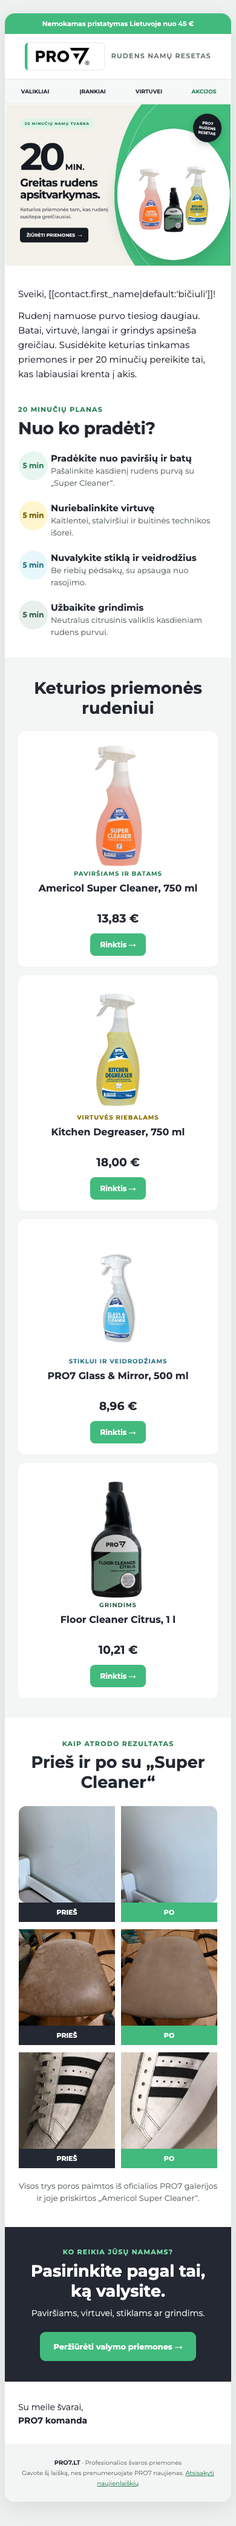
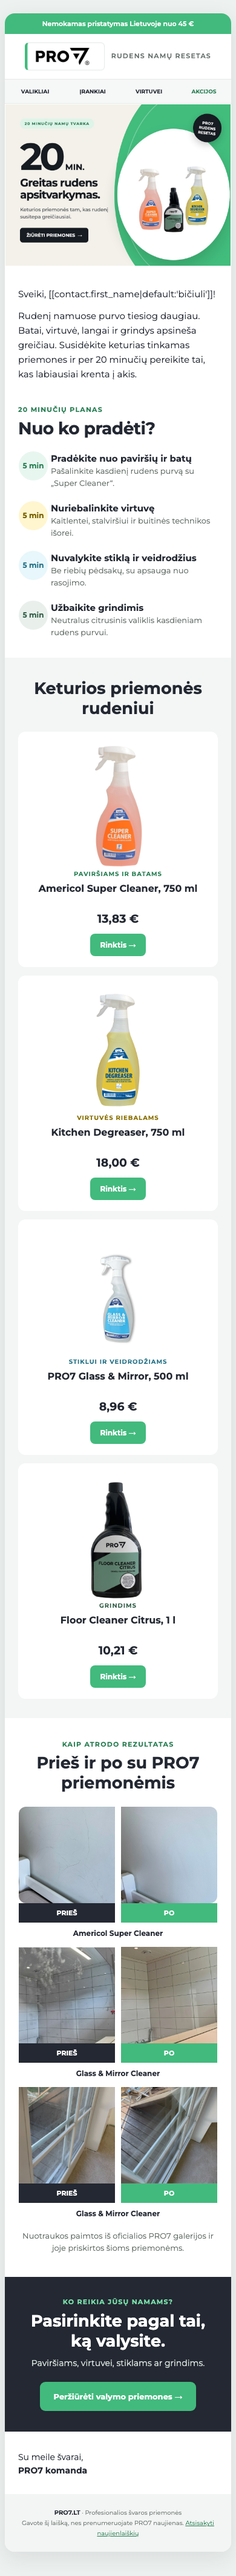
Diversify proof gallery with Glass and Mirror results

diff --git a/nl2-20min-rudens-resetas/index.html b/nl2-20min-rudens-resetas/index.html
@@ -67,20 +67,23 @@
 
       <tr><td class="pad" style="padding:36px 32px 38px;font-family:Montserrat,Arial,sans-serif;color:#232832">
         <div style="font-size:11px;line-height:14px;font-weight:700;letter-spacing:1.2px;text-transform:uppercase;color:#277e52;text-align:center">Kaip atrodo rezultatas</div>
-        <h2 style="margin:7px 0 22px;font-size:27px;line-height:33px;font-weight:700;text-align:center">Prieš ir po su „Super Cleaner“</h2>
+        <h2 style="margin:7px 0 22px;font-size:27px;line-height:33px;font-weight:700;text-align:center">Prieš ir po su PRO7 priemonėmis</h2>
         <a href="https://www.pro7.lt/galerija" style="display:block"><table role="presentation" width="100%"><tr>
           <td width="50%" style="padding-right:5px"><img src="assets/before-super-cleaner.png" width="258" alt="Prieš valymą su PRO7" style="width:100%;height:auto;border-radius:12px 0 0 12px"><div style="padding:9px;background:#232832;color:#fff;text-align:center;font-size:11px;font-weight:700">PRIEŠ</div></td>
           <td width="50%" style="padding-left:5px"><img src="assets/after-super-cleaner.png" width="258" alt="Po valymo su PRO7" style="width:100%;height:auto;border-radius:0 12px 12px 0"><div style="padding:9px;background:#42ba7d;color:#fff;text-align:center;font-size:11px;font-weight:700">PO</div></td>
         </tr></table></a>
+        <div style="padding:8px 0 3px;font-size:12px;line-height:17px;font-weight:700;text-align:center;color:#232832">Americol Super Cleaner</div>
         <a href="https://www.pro7.lt/galerija" style="display:block;margin-top:10px"><table role="presentation" width="100%"><tr>
-          <td width="50%" style="padding-right:5px"><img src="assets/pries-pro7-valymo-priemones-1cff5.png" width="258" alt="Kėdė prieš valymą su Super Cleaner" style="width:100%;height:auto"><div style="padding:9px;background:#232832;color:#fff;text-align:center;font-size:11px;font-weight:700">PRIEŠ</div></td>
-          <td width="50%" style="padding-left:5px"><img src="assets/po-pro7-valymo-priemones-7e98d.png" width="258" alt="Kėdė po valymo su Super Cleaner" style="width:100%;height:auto"><div style="padding:9px;background:#42ba7d;color:#fff;text-align:center;font-size:11px;font-weight:700">PO</div></td>
+          <td width="50%" style="padding-right:5px"><img src="assets/pries-pro7-valymo-priemones-43f9a.jpg" width="258" alt="Stiklas prieš valymą su Glass and Mirror Cleaner" style="width:100%;height:auto"><div style="padding:9px;background:#232832;color:#fff;text-align:center;font-size:11px;font-weight:700">PRIEŠ</div></td>
+          <td width="50%" style="padding-left:5px"><img src="assets/po-pro7-valymo-priemones-3bbdc.jpg" width="258" alt="Stiklas po valymo su Glass and Mirror Cleaner" style="width:100%;height:auto"><div style="padding:9px;background:#42ba7d;color:#fff;text-align:center;font-size:11px;font-weight:700">PO</div></td>
         </tr></table></a>
+        <div style="padding:8px 0 3px;font-size:12px;line-height:17px;font-weight:700;text-align:center;color:#232832">Glass &amp; Mirror Cleaner</div>
         <a href="https://www.pro7.lt/galerija" style="display:block;margin-top:10px"><table role="presentation" width="100%"><tr>
-          <td width="50%" style="padding-right:5px"><img src="assets/pries-pro7-valymo-priemones-e9a24.jpg" width="258" alt="Batas prieš valymą su Super Cleaner" style="width:100%;height:auto"><div style="padding:9px;background:#232832;color:#fff;text-align:center;font-size:11px;font-weight:700">PRIEŠ</div></td>
-          <td width="50%" style="padding-left:5px"><img src="assets/po-pro7-valymo-priemones-7c7f1.jpg" width="258" alt="Batas po valymo su Super Cleaner" style="width:100%;height:auto"><div style="padding:9px;background:#42ba7d;color:#fff;text-align:center;font-size:11px;font-weight:700">PO</div></td>
+          <td width="50%" style="padding-right:5px"><img src="assets/pries-pro7-valymo-priemones-3d3e8.jpg" width="258" alt="Langas prieš valymą su Glass and Mirror Cleaner" style="width:100%;height:auto"><div style="padding:9px;background:#232832;color:#fff;text-align:center;font-size:11px;font-weight:700">PRIEŠ</div></td>
+          <td width="50%" style="padding-left:5px"><img src="assets/po-pro7-valymo-priemones-5f61f.jpg" width="258" alt="Langas po valymo su Glass and Mirror Cleaner" style="width:100%;height:auto"><div style="padding:9px;background:#42ba7d;color:#fff;text-align:center;font-size:11px;font-weight:700">PO</div></td>
         </tr></table></a>
-        <p style="margin:18px 0 0;font-size:13px;line-height:20px;color:#66706a;text-align:center">Visos trys poros paimtos iš oficialios PRO7 galerijos ir joje priskirtos „Americol Super Cleaner“.</p>
+        <div style="padding:8px 0 3px;font-size:12px;line-height:17px;font-weight:700;text-align:center;color:#232832">Glass &amp; Mirror Cleaner</div>
+        <p style="margin:15px 0 0;font-size:13px;line-height:20px;color:#66706a;text-align:center">Nuotraukos paimtos iš oficialios PRO7 galerijos ir joje priskirtos šioms priemonėms.</p>
       </td></tr>
 
       <tr><td class="pad" bgcolor="#232832" align="center" style="padding:34px 38px;font-family:Montserrat,Arial,sans-serif;color:#ffffff">
